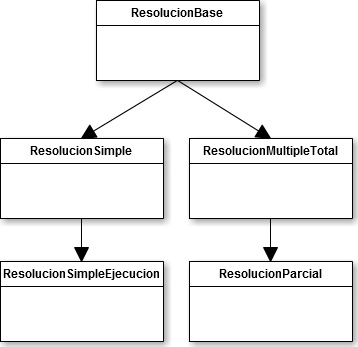
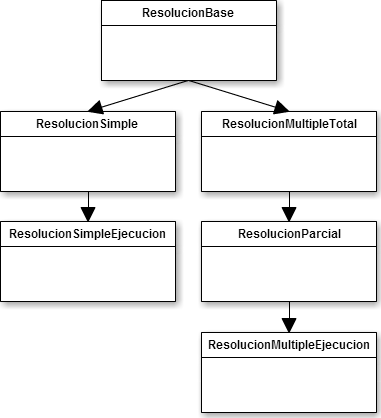
+ Modificado botón finalizar evaluaciones, títulos en página de conceptos económicos y actualizada documentación de resolución,

Changed region(s): [[0.0, 0.0, 1.0, 1.0], [0.0, 0.3746, 0.0307, 0.4035], [0.0, 0.2594, 0.0307, 0.2882]]

diff --git a/fap/app/views/fap/PaginaCEconomicosEvaluados/PaginaCEconomicosEvaluados.html b/fap/app/views/fap/PaginaCEconomicosEvaluados/PaginaCEconomicosEvaluados.html
@@ -16,13 +16,13 @@
      pagina:'PaginaCEconomicosEvaluados', 
      permiso:'adminOrGestor', 
      permisoMensaje:'No tiene suficientes privilegios para acceder a esta solicitud', 
-     titulo:'Conceptos Económicos Evaluados', 
+     titulo:'Conceptos Económicos Propuestos y Concedidos', 
      urlBorrar:play.mvc.Router.reverse('PaginaCEconomicosEvaluadosController.borrar' , ['idSolicitud':solicitud?.id]), 
      urlCrear:play.mvc.Router.reverse('PaginaCEconomicosEvaluadosController.crear' ), 
      urlEditar:play.mvc.Router.reverse('PaginaCEconomicosEvaluadosController.editar' , ['idSolicitud':solicitud?.id])
 }
 
-	#{fap.grupo titulo:'Conceptos Económicos Evaluados', id: 'CEconomicosEvaluados'}
+	#{fap.grupo titulo:'Conceptos Económicos Propuestos y Concedidos', id: 'CEconomicosEvaluados'}
 
 		<div id="tablaCEconomicosEvaluados" class="tabla"></div>
 
@@ -181,7 +181,7 @@
 				renderTo: '${id}',
 				id: '${id}-grid',
 				height: 400,
-				title: 'Conceptos Economicos Evaluados',
+				title: 'Conceptos Económicos Propuestos y Concedidos',
 				plugins: [
 					editRow
 				],

diff --git a/fap/app/baremacion/BaremacionFAP.java b/fap/app/baremacion/BaremacionFAP.java
@@ -162,6 +162,8 @@ public class BaremacionFAP {
 						if (conceptoS.tipo.jerarquia.equals(conceptoE.tipo.jerarquia)) {
 							for (int i=0; i<evaluacion.tipo.duracion; i++) {
 								conceptoS.valores.get(0).valorEstimado = conceptoE.valores.get(0).valorEstimado;
+								conceptoS.valores.get(0).valorPropuesto = conceptoE.valores.get(0).valorPropuesto;
+                                conceptoS.valores.get(0).valorConcedido = conceptoE.valores.get(0).valorConcedido;
 							}
 							conceptoS.save();
 							break;
